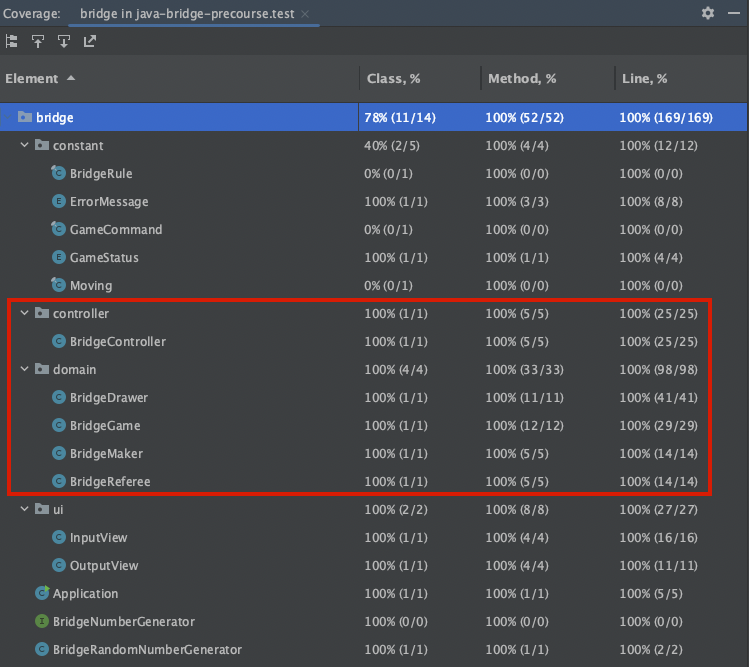
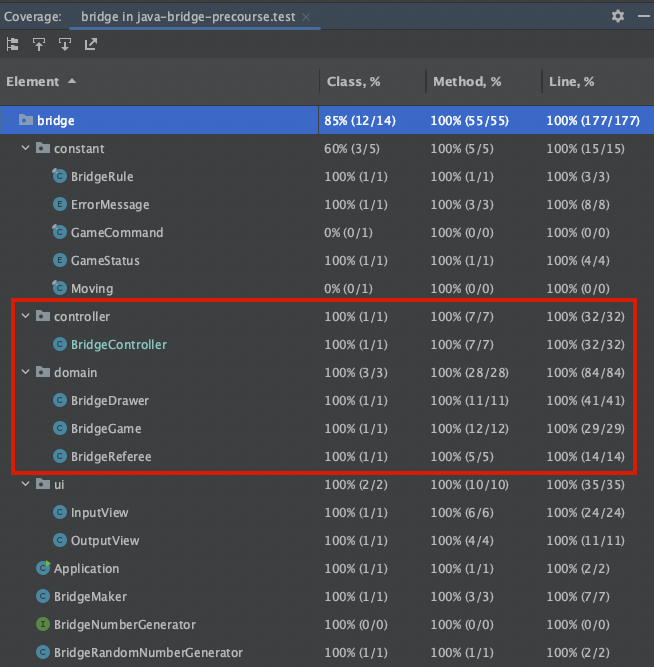
test(Application): 통합 테스트 케이스 추가

Changed region(s): [[0.0, 0.0, 1.0, 0.9895], [0.9174, 0.0, 1.0, 0.03]]

diff --git a/src/test/java/bridge/ApplicationTest.java b/src/test/java/bridge/ApplicationTest.java
@@ -83,6 +83,30 @@ class ApplicationTest extends NsTest {
         });
     }
 
+    @Test
+    void 예외_테스트_추가_범위에_맞지_않은_다리_길이() {
+        assertSimpleTest(() -> {
+            runException("1");
+            assertThat(output()).contains(ERROR_MESSAGE);
+        });
+    }
+
+    @Test
+    void 예외_테스트_추가_움직일_방향() {
+        assertSimpleTest(() -> {
+            runException("3", "u");
+            assertThat(output()).contains(ERROR_MESSAGE);
+        });
+    }
+
+    @Test
+    void 예외_테스트_추가_게임_재시작_여부() {
+        assertSimpleTest(() -> {
+            runException("3", "D", "r");
+            assertThat(output()).contains(ERROR_MESSAGE);
+        });
+    }
+
     @Override
     protected void runMain() {
         Application.main(new String[]{});
